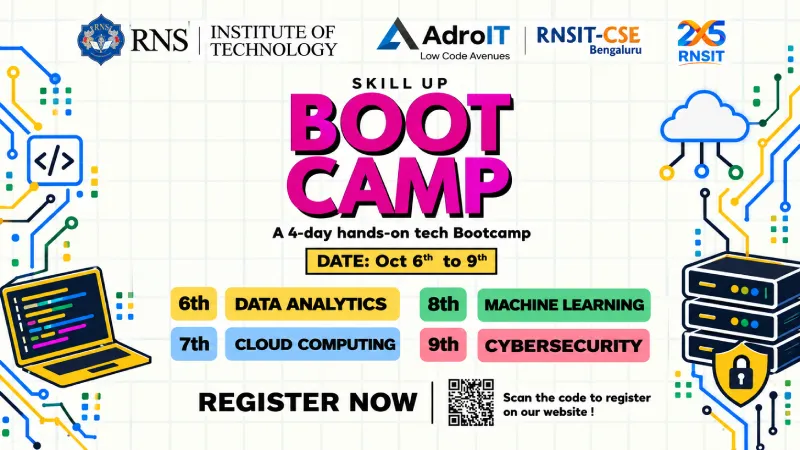
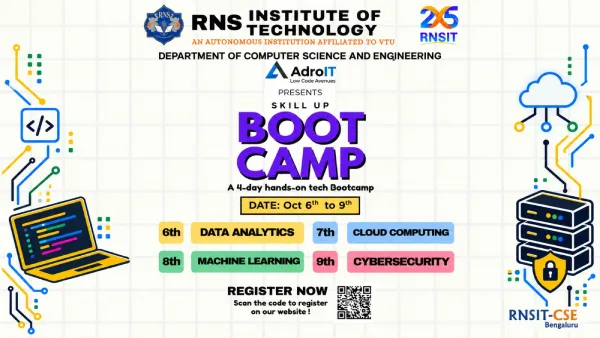
Update contact handling and refresh member/event assets.
This adds a 2-per-day contact form rate limit while keeping email delivery, updates Jayasakthi PV's profile details, and replaces the Skill Up Boot Camp poster.

diff --git a/frontend/src/pages/Contact.jsx b/frontend/src/pages/Contact.jsx
@@ -2,6 +2,9 @@ import { useState } from "react";
 import { Mail, MapPin, Send, Clock, ExternalLink } from "lucide-react";
 
 const CONTACT_EMAIL = "adroit.rnsit@gmail.com";
+const RATE_LIMIT_KEY = "adroit_contact_submissions";
+const RATE_LIMIT_MAX = 2;
+const RATE_LIMIT_WINDOW_MS = 24 * 60 * 60 * 1000;
 const CAMPUS_MAP =
   "https://www.google.com/maps/embed?pb=!1m18!1m12!1m3!1d3519.4201134668556!2d77.51600707454556!3d12.902195416397204!2m3!1f0!2f0!3f0!3m2!1i1024!2i768!4f13.1!3m3!1m2!1s0x3bae3fa747acf84b%3A0x97a5cf1952c2fe3a!2sRNSIT%20CSE%20Department!5e1!3m2!1sen!2sin!4v1770548920832!5m2!1sen!2sin";
 
@@ -19,6 +22,28 @@ export default function Contact() {
   const [loading, setLoading] = useState(false);
   const [message, setMessage] = useState({ type: "", text: "" });
 
+  const getRecentSubmissions = () => {
+    try {
+      const raw = localStorage.getItem(RATE_LIMIT_KEY);
+      const now = Date.now();
+      const list = raw ? JSON.parse(raw) : [];
+      if (!Array.isArray(list)) return [];
+      return list
+        .map((ts) => Number(ts))
+        .filter((ts) => Number.isFinite(ts) && now - ts < RATE_LIMIT_WINDOW_MS);
+    } catch {
+      return [];
+    }
+  };
+
+  const saveRecentSubmissions = (timestamps) => {
+    try {
+      localStorage.setItem(RATE_LIMIT_KEY, JSON.stringify(timestamps));
+    } catch {
+      // Ignore storage write errors; submit already succeeded.
+    }
+  };
+
   const handleChange = (e) => {
     const { name, value } = e.target;
     setFormData((prev) => ({ ...prev, [name]: value }));
@@ -32,6 +57,16 @@ export default function Contact() {
     if (formData.website) {
       setLoading(false);
       setMessage({ type: "success", text: "Message sent. We'll get back to you soon." });
+      return;
+    }
+
+    const recentSubmissions = getRecentSubmissions();
+    if (recentSubmissions.length >= RATE_LIMIT_MAX) {
+      setLoading(false);
+      setMessage({
+        type: "error",
+        text: "Rate limit reached. You can send up to 2 messages every 24 hours from this browser.",
+      });
       return;
     }
 
@@ -61,6 +96,7 @@ export default function Contact() {
         throw new Error(data.message || "Failed to send message");
       }
 
+      saveRecentSubmissions([...recentSubmissions, Date.now()]);
       setFormData({ name: "", email: "", subject: "", message: "", website: "" });
       setMessage({
         type: "success",

diff --git a/frontend/src/data/members.js b/frontend/src/data/members.js
@@ -73,7 +73,11 @@ export const memberGroups = [
     members: [
       lead("Sanjay"),
       member("Krishna"),
-      member("Jaysakthi"),
+      member(
+        "Jayasakthi PV",
+        "https://www.linkedin.com/in/jayasakthi-pv-41015a412",
+        "https://res.cloudinary.com/vkdnztnm/image/upload/v1791097671/WhatsApp_Image_2026-10-04_at_10.28.20.webp",
+      ),
       member("Likhit"),
       member("Chandranshu"),
       member("Krish Jaiswal"),
